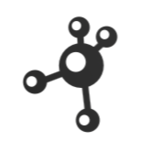
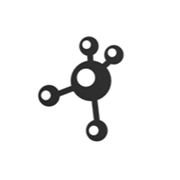
Updated facivon

Changed region(s): [[0.1316, 0.1053, 0.7895, 0.8947]]

diff --git a/_includes/meta.html b/_includes/meta.html
@@ -43,14 +43,11 @@
 
 <title>XLAB</title>
 
-<link rel="icon" type="image/x-icon" href="/favicon-32x32.png">
-<!-- <link rel="apple-touch-icon" sizes="152x152" href="/apple-touch-icon.png">
+<link rel="icon" type="image/png" href="/icon.png">
+<link rel="apple-touch-icon" sizes="180x180" href="/apple-touch-icon.png">
 <link rel="icon" type="image/png" sizes="32x32" href="/favicon-32x32.png">
 <link rel="icon" type="image/png" sizes="16x16" href="/favicon-16x16.png">
 <link rel="manifest" href="/site.webmanifest">
-<link rel="mask-icon" href="/safari-pinned-tab.svg" color="#5bbad5">
-<meta name="msapplication-TileColor" content="#da532c">
-<meta name="theme-color" content="#ffffff"> -->
 
 <meta name="title" content="{{ title }}">
 <meta name="description" content="{{ description }}">
